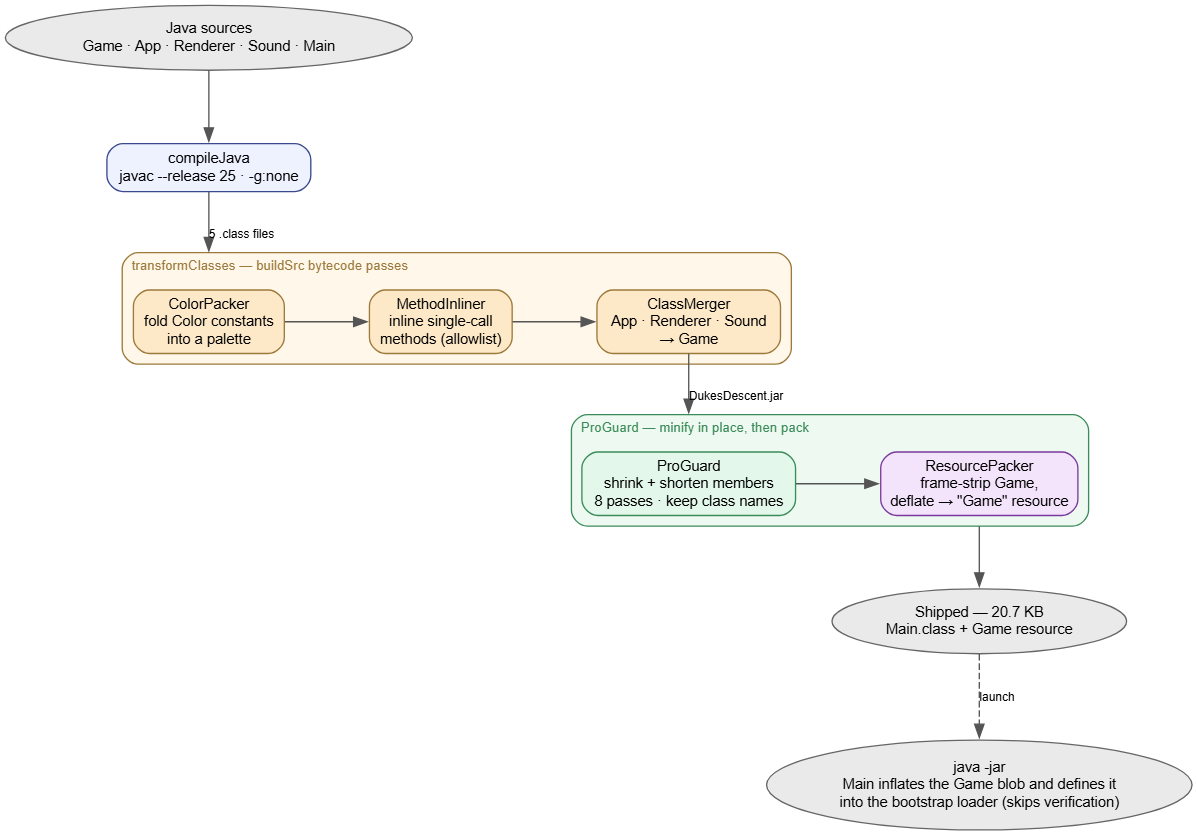
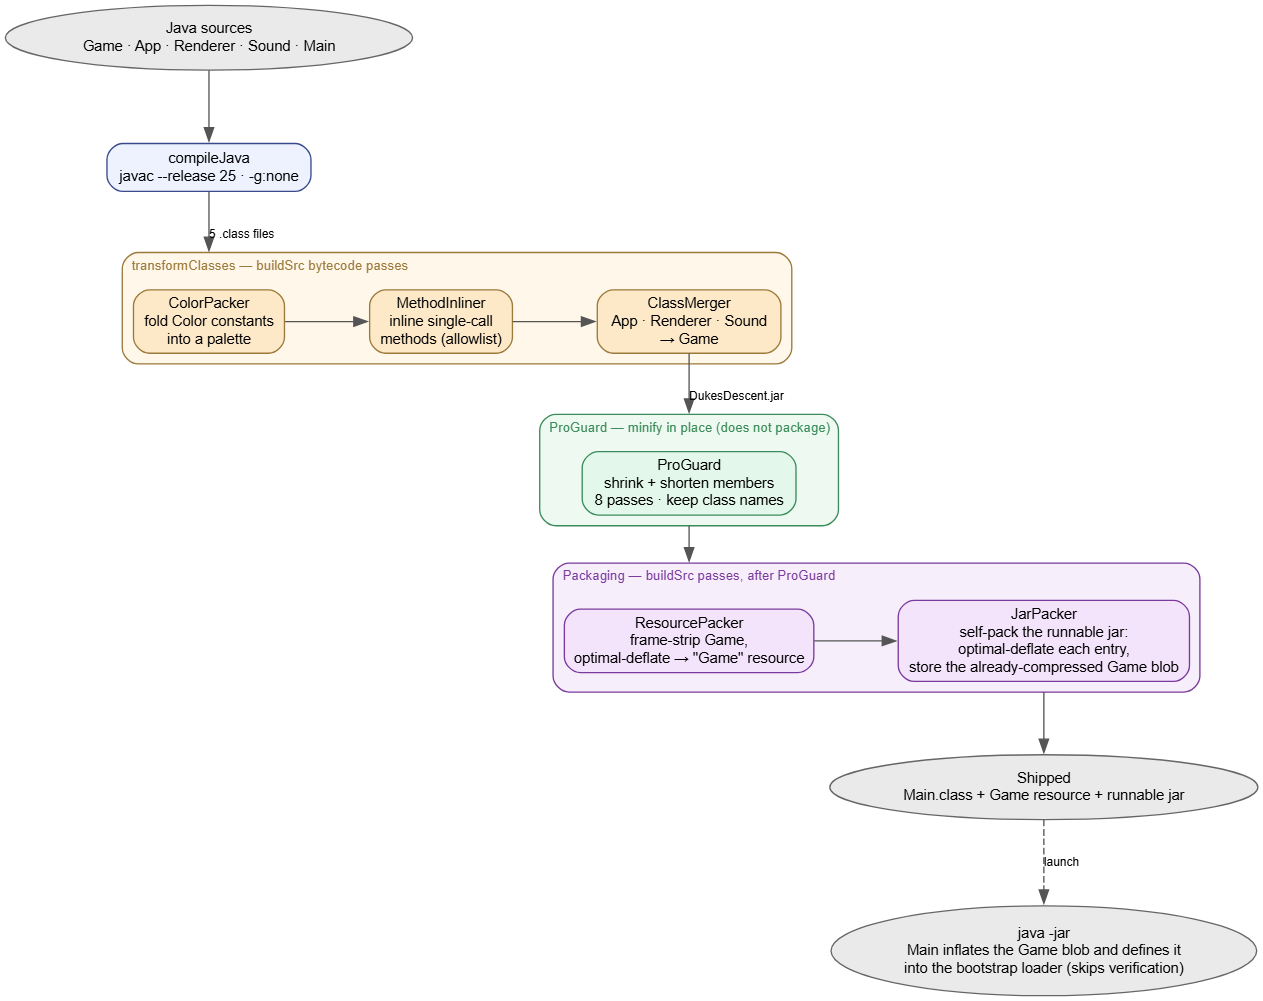
- Now manually handles optimally packing and deflating output jar

diff --git a/buildSrc/src/main/java/dukes/yabr/pack/JarPacker.java b/buildSrc/src/main/java/dukes/yabr/pack/JarPacker.java
@@ -1,0 +1,146 @@
+package dukes.yabr.pack;
+
+import java.io.ByteArrayOutputStream;
+import java.io.File;
+import java.io.IOException;
+import java.nio.charset.StandardCharsets;
+import java.nio.file.Files;
+import java.util.ArrayList;
+import java.util.List;
+import java.util.zip.CRC32;
+
+/**
+ * Writes a runnable jar (a ZIP) by hand, compressing each entry with {@link OptimalDeflate} and falling back to
+ * stored when deflate would not shrink it. The stock {@code JarOutputStream} always deflates with
+ * {@code java.util.zip.Deflater}, which both loses to OptimalDeflate on the class bytes and re-deflates the
+ * already-compressed Game blob into something slightly larger; this packer beats it on the former and avoids
+ * the latter. The result is an ordinary jar the JVM reads with no special handling - a stored entry is returned
+ * verbatim and a deflated entry inflates with the stock inflater.
+ */
+public final class JarPacker {
+
+    private static final int LOCAL_SIGNATURE = 0x04034b50;
+    private static final int CENTRAL_SIGNATURE = 0x02014b50;
+    private static final int END_SIGNATURE = 0x06054b50;
+    private static final int METHOD_STORED = 0;
+    private static final int METHOD_DEFLATED = 8;
+
+    /** Fixed DOS date 1980-01-01 00:00, so the jar is byte-reproducible across builds. */
+    private static final int DOS_TIME = 0;
+    private static final int DOS_DATE = 0x21;
+
+    private JarPacker() {
+    }
+
+    /** One jar member: its path within the jar and its uncompressed bytes. */
+    public record Entry(String name, byte[] data) {
+    }
+
+    /** Per-entry result after choosing stored vs deflated, plus the local-header offset filled in while writing. */
+    private static final class Packed {
+        final byte[] name;
+        final long crc;
+        final int method;
+        final byte[] payload;
+        final int uncompressedSize;
+        int localOffset;
+
+        Packed(byte[] name, long crc, int method, byte[] payload, int uncompressedSize) {
+            this.name = name;
+            this.crc = crc;
+            this.method = method;
+            this.payload = payload;
+            this.uncompressedSize = uncompressedSize;
+        }
+    }
+
+    /** Writes {@code entries} to {@code jar} as an optimally-compressed ZIP, returning the file's byte size. */
+    public static long write(File jar, List<Entry> entries) throws IOException {
+        List<Packed> packed = new ArrayList<>();
+        for (Entry entry : entries) {
+            byte[] raw = entry.data();
+            CRC32 crc = new CRC32();
+            crc.update(raw);
+            byte[] deflated = OptimalDeflate.compress(raw);
+            boolean shrinks = deflated.length < raw.length;
+            packed.add(new Packed(entry.name().getBytes(StandardCharsets.UTF_8), crc.getValue(),
+                    shrinks ? METHOD_DEFLATED : METHOD_STORED, shrinks ? deflated : raw, raw.length));
+        }
+
+        ByteArrayOutputStream out = new ByteArrayOutputStream();
+        for (Packed entry : packed) {
+            entry.localOffset = out.size();
+            writeLocalHeader(out, entry);
+            out.writeBytes(entry.payload);
+        }
+        int centralOffset = out.size();
+        for (Packed entry : packed) {
+            writeCentralHeader(out, entry);
+        }
+        int centralSize = out.size() - centralOffset;
+        writeEndRecord(out, packed.size(), centralSize, centralOffset);
+
+        byte[] bytes = out.toByteArray();
+        Files.write(jar.toPath(), bytes);
+        return bytes.length;
+    }
+
+    private static void writeLocalHeader(ByteArrayOutputStream out, Packed entry) {
+        writeInt(out, LOCAL_SIGNATURE);
+        writeShort(out, entry.method == METHOD_DEFLATED ? 20 : 10);
+        writeShort(out, 0);
+        writeShort(out, entry.method);
+        writeShort(out, DOS_TIME);
+        writeShort(out, DOS_DATE);
+        writeInt(out, (int) entry.crc);
+        writeInt(out, entry.payload.length);
+        writeInt(out, entry.uncompressedSize);
+        writeShort(out, entry.name.length);
+        writeShort(out, 0);
+        out.writeBytes(entry.name);
+    }
+
+    private static void writeCentralHeader(ByteArrayOutputStream out, Packed entry) {
+        writeInt(out, CENTRAL_SIGNATURE);
+        writeShort(out, 20);
+        writeShort(out, entry.method == METHOD_DEFLATED ? 20 : 10);
+        writeShort(out, 0);
+        writeShort(out, entry.method);
+        writeShort(out, DOS_TIME);
+        writeShort(out, DOS_DATE);
+        writeInt(out, (int) entry.crc);
+        writeInt(out, entry.payload.length);
+        writeInt(out, entry.uncompressedSize);
+        writeShort(out, entry.name.length);
+        writeShort(out, 0);
+        writeShort(out, 0);
+        writeShort(out, 0);
+        writeShort(out, 0);
+        writeInt(out, 0);
+        writeInt(out, entry.localOffset);
+        out.writeBytes(entry.name);
+    }
+
+    private static void writeEndRecord(ByteArrayOutputStream out, int count, int centralSize, int centralOffset) {
+        writeInt(out, END_SIGNATURE);
+        writeShort(out, 0);
+        writeShort(out, 0);
+        writeShort(out, count);
+        writeShort(out, count);
+        writeInt(out, centralSize);
+        writeInt(out, centralOffset);
+        writeShort(out, 0);
+    }
+
+    private static void writeShort(ByteArrayOutputStream out, int value) {
+        out.write(value & 0xff);
+        out.write((value >>> 8) & 0xff);
+    }
+
+    private static void writeInt(ByteArrayOutputStream out, int value) {
+        out.write(value & 0xff);
+        out.write((value >>> 8) & 0xff);
+        out.write((value >>> 16) & 0xff);
+        out.write((value >>> 24) & 0xff);
+    }
+}

diff --git a/README.md b/README.md
@@ -131,6 +131,7 @@ Implemented with **YABR**, My own bytecode library (No use of ASM, Javassist, et
 - `App`, `Renderer`, and `Sound` are merged into `Game`, collapsing four constant pools into one
 - The merged `Game` is then frame-stripped and compressed into the `Game` resource (see the loader pattern below)
 - Compression uses a from-scratch DEFLATE encoder (Zopfli-style optimal LZ77 parse plus block splitting) that beats the stock library at the same format, so the stock inflater still decodes it
+- The runnable jar is self-packed by that same encoder rather than `JarOutputStream`: each entry is optimally deflated, and the already-compressed `Game` blob is stored verbatim instead of wastefully re-deflated
 
 **Loader pattern:**`Game` carries the entire program but its StackMapTable frames are pure verifier bookkeeping. `Main` defines the inflated class into the bootstrap class loader, which is trusted and so runs no verification - the only thing that reads those frames - letting the build strip them before compressing. The blob is still an ordinary Java 25 class file; only the frames are gone. This trades a small, fixed loader for the frame bytes plus the compression of everything else, roughly halving the measured size.
 
@@ -145,4 +146,5 @@ Measured from a build (`./gradlew size`), which sums the compiled classes and re
 | --- | ---: |
 | `Main.class` (bootstrap loader) | 2,229 B |
 | `Game` resource (the whole game, compressed) | 17,530 B |
-| **Total** | **19,759 B (19.30 KB)** |
+| **Total (measured)** | **19,759 B (19.30 KB)** |
+| Packaged `DukesDescent-1.0.jar` | 18,942 B (18.50 KB) |